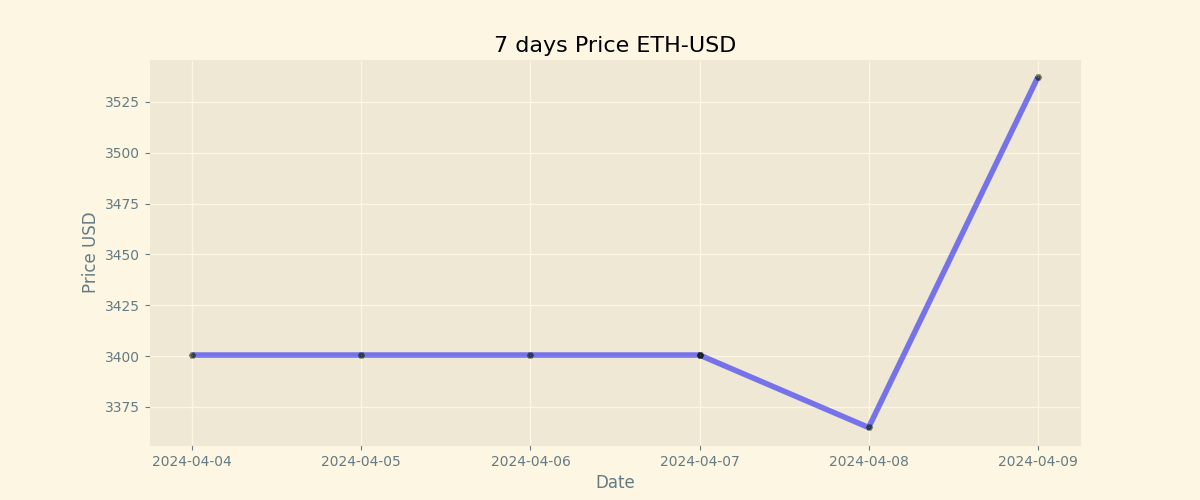
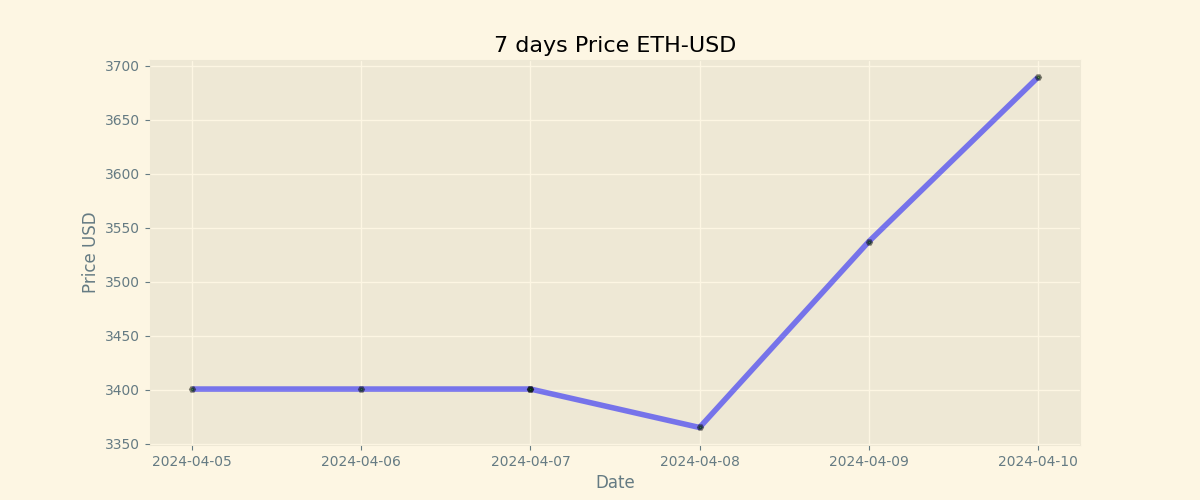
Duty Updates 2024-04-10

diff --git a/README.md b/README.md
@@ -9,8 +9,8 @@
 
 | Currency | Price           |
 | -------- | --------------- |
-| **BTC**  | **$ 70000.0** |
-| **ETH**  | **$ 3537.0** |
+| **BTC**  | **$ 70108.12** |
+| **ETH**  | **$ 3689.16** |
 
 ## BTC chart
 
